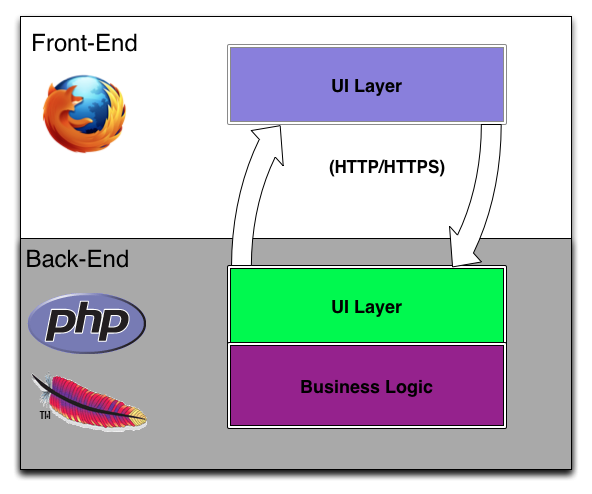
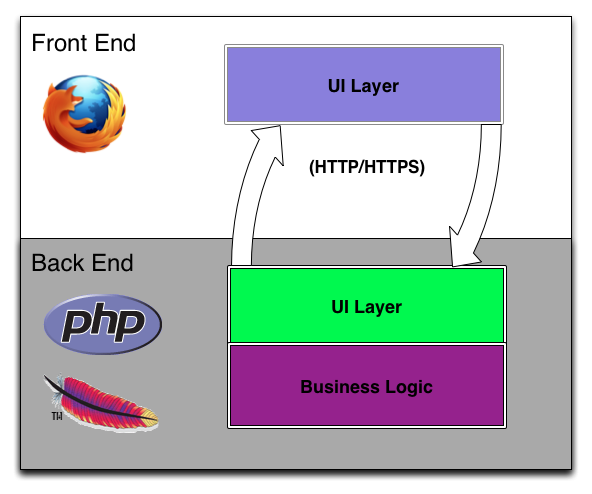
Updated the getting started w/ a note that models use HTTP-based services and don't connect to databases. Also, finished section about what is different in Mojito.

diff --git a/docs/dev_guide/intro/mojito_overview.rst b/docs/dev_guide/intro/mojito_overview.rst
@@ -115,105 +115,65 @@ utility that allows you to handle monolingual and multilingual applications. Usi
 slideboard application could use one language for the UI and serve the content in a 
 different language.
 
-One Framework, Two UI Layers
-----------------------------
+.. _mojito_overview-differences:
 
-Client and Server Separation
-############################
+How is it Different?
+====================
+
+The following sections looks at how Mojito is different from past Web development paradigms.
+Much thanks goes to Nicholas C. Zakas who wrote the blog post 
+`Node.js and the new web front-end <http://www.nczonline.net/blog/2013/10/07/node-js-and-the-new-web-front-end/>`_
+from which much of the following content is based on.
+
+.. _differences-control_be_ui:
+
+Controlling the Back-End UI Layer 
+################################
 
 In the past, applications were often divided into two discrete parts (client/server) 
-that were written by two groups of specialized engineers: frontend and backend engineers. The frontend 
-engineers wrote the code that was to be executed in the browser, and backend engineers focused on the 
-business logic and backend UI layer. By backend UI layer, we are referring to the
-payload (templates/data) that is generated by the server. Frontend developers used AJAX  
+that were written by two groups of specialized engineers: front-end and back-end engineers. 
+The front-end engineers wrote the code that was to be executed in the browser, and back-end 
+engineers focused on the business logic and back-end UI layer. By back-end UI layer, we are 
+referring to the payload (templates/data) that is generated by the server. 
 
-- separation of client and server code
-- two groups of specialized engineers
-- AJAX 
+This diagram reflects the separation of client and server code as well as the back-end
+UI layer in typical Web application architectures.
 
-Then: Application Frameworks 
-############################
+.. image:: images/client_server_http.png
+   :height: 591 px
+   :width: 508 px
+   :scale: 75 %
+   :alt: Front/Back-end separation of traditional Web applications.
+   :align: left
 
-Later frameworks such as Django and Ruby on Rails were structured in a way to more tightly 
-integrate the client and server, so engineers could write both client-side and server-side code. 
-Still, this required writing code in Ruby/PHP as well as being proficient in JavaScript/CSS/HTML.  
-Also, engineers still need to know how to work with databases through an ORM, although these 
-frameworks simplified the interaction between the backend UI layer and the database.
+In contrast, because Mojito runs on Node.js, the back-end UI layer now lies in the realm of 
+the Mojito application developers, allowing you to control the payload:
 
-Mojito and Node.js
-##################
+.. image:: images/nodejs_be_ui.png
+   :height: 591 px
+   :width: 200 px
+   :scale: 50 %
+   :alt: Node.js/Mojito serving as the back-end UI layer.
+   :align: right
 
-Because Mojito is built on Node.js, frontend engineers can write both the frontend UI and backend UI layer
-in JavaScript. This gives them greater control of what gets delivered to the client, and they don't have to
-be as reliant on backend developers. Unlike Django and Ruby on Rails, however, Mojito does not
-provide an ORM to a database. As a Mojito application developer, you 
+.. _differences-existing_service:
 
-them to control the middle server layer that contains the payload. 
+Building on an Existing HTTP-Based Service
+##########################################
 
-Model connects directly to a database through an ORM, with no intermediate service layer.
-applicathe distinction between the client-side and server-side was so clear that we had 
+Frameworks such as Rails and Django allow you to connect directly to a database through
+object-relational mapping (ORM) with no intermediate service layer. With Mojito, you
+do not directly connect to databases, but instead make HTTP requests to an existing
+service, thereby, the separating the application code completely from database queries.
 
-specialized engineers to work on client-side code and
-In the past, the client-side and server-side of application were discrete parts tart
-were developed by  
+Mojito applications can use `YQL <http://developer.yahoo.com/yql>`_ to make requests to 
+other Web services to get data as well, which gives the application code more control over 
+the requested data, but this again is not a direct database request as YQL is a RESTful 
+proxy that will make HTTP requests to other Web services based on rules defined in XML tables. 
 
-I think that's where Juan and I completely misunderstood the role of Mojito, and why we kept trying to make Y.Storage abstract out both browser databases and server databases.
- 
-I also think that this is where a lot of developers like us, that have backgrounds from frameworks like Django and Rails, got really confused about Mojito, and didn't adopt it for our own projects.  In Django and Rails, a Model connects directly to a database through an ORM, with no intermediate service layer.
- 
-I think we need to write a blog post that expands on Zakas' post, how Mojito relates to it, and how Django/Rails/PHP developers should use Mojito today.  I also think this blog post needs to be at the front of the Mojito Getting Started guide, and that developers should know that Mojito should be built on top of an existing service architecture.
- 
-For Modown: I realize now that I was trying to solve the wrong problem for the past two months, but I think I know how to better approach it now.
- 
------------
-Node.js and the new web front-end
-Posted at October 7, 2013 07:00 am by Nicholas C. Zakas
-Tags: Architecture, JavaScript, Node.js, Web Server
-Front-end engineers have a rather long and complicated history in software engineering. For the longest time, that stuff 
-you sent to the browser was “easy enough” that anyone could do it and there was no real need for specialization. 
-Many claimed that so-called web developers were nothing more than graphic designers using a different medium. 
-The thought that one day you would be able to specialize in web technologies like HTML, CSS, and JavaScript was 
-laughable at best – the UI was, after all, something anyone could just hack together and have work.
+This is an important point to remember for those developers who are coming from Rails, Django,
+and other frameworks that allow you to directly interact with a database. In general,
+your Mojito applications will need to make HTTP requests to a service that handles 
+database queries or to Web services.
 
-JavaScript was the technology that really started to change the perception of web developers, changing them into 
-front-end engineers. This quirky little toy language that many software engineers turned their noses up at became the 
-driving force of the Internet. CSS and HTML then came along for the ride as more browsers were introduced, creating 
-cross-browser incompatibilities that very clearly defined the need for front-end engineers. Today, front-end specialists 
-are one of the most sought after candidates in the world.
 
-The two UI layers
-
-Even after the Ajax boom, the front-end engineer was seen as primarily working with technologies inside of a browser window. 
-HTML, CSS, and JavaScript were the main priorities and we would only touch the back-end (web server) in order to ensure it 
-was properly outputting the front-end. In a sense, there were two UI layers: the one in the browser itself and the one on the 
-server that generated the payload for the browser. We had very little control over the back-end UI layer and were often 
-beholden to back-end engineers’ opinions on how frameworks should be put together – a world view that rarely took into 
-consideration the needs of the front-end.
-
-I think I personally had a huge gap understanding how Mojito (and Modown) worked until I read this post by Zakas:
-
-http://www.nczonline.net/blog/2013/10/07/node-js-and-the-new-web-front-end/
-
-It didn't occur to me until today that Mojito was supposed to be built on top of an existing HTTP service, 
-and not directly connected to a database.  
-
-Every time I built a Mojito application, I had a lot of models that were split up into something like:
-post.server.js
-post.client.js
-
-Where the server model connected to a database, and the client model made an AJAX call to access 
-the server model through a RESTful route.  
-
-I think that's where Juan and I completely misunderstood the role of Mojito, and why we kept trying to make 
-Y.Storage abstract out both 
-browser databases and server databases.
-
-I also think that this is where a lot of developers like us, that have backgrounds from frameworks like Django and Rails, got really confused about 
-Mojito, and didn't adopt it for our own projects.  
-
-I think we need to write a blog post that expands on Zakas' post, how Mojito relates to it, and how Django/Rails/PHP developers should use Mojito today.  
-I also think this blog post needs to be at the front of the Mojito Getting Started guide, and that developers should know that Mojito should be built on 
-top of an existing service architecture.
-
-For Modown: I realize 
-now that I was trying to solve the wrong problem for the past two months, but I think I know how to better approach it now.

diff --git a/docs/dev_guide/getting_started/mojito_getting_started_tutorial.rst b/docs/dev_guide/getting_started/mojito_getting_started_tutorial.rst
@@ -10,7 +10,6 @@ Prerequisite
 Complete the `Mojito Quickstart <quickstart.html>`_, which instructs you
 how to install Mojito and use basic commands for the Mojito command-line tool.
 
-
 In this tutorial, you create a simple application that serves a single page and 
 uses a controller to generate output. 
 
@@ -175,7 +174,7 @@ controller outputs different results.
           *        to the Mojito API.
           **/
           index: function(ac) {
-            ac.models.get('HelloMojitModel').getData(function(err, data) {
+            ac.models.get('model').getData(function(err, data) {
               if (err) {
                 ac.error(err);
                 return;
@@ -191,8 +190,7 @@ controller outputs different results.
       }, '0.0.1', {requires: [
         'mojito',
         'mojito-models-addon', 
-        'mojito-assets-addon',
-        'HelloMojitModel'
+        'mojito-assets-addon'
       ]});
 
 
@@ -200,6 +198,10 @@ controller outputs different results.
    and the "action" is just a method called on the controller object. 
    The result of the method are communicated back to Mojito through the 
    ``actionContext`` object. 
+
+   Models in Mojito rely on HTTP-based services to get data and do not generally connect
+   directly to a database through an ORM. We recommend `YQL <http://developer.yahoo.com/yql>`_
+   to fetch data from Web services.
 
 #. Change to the ``tests`` directory.
 
